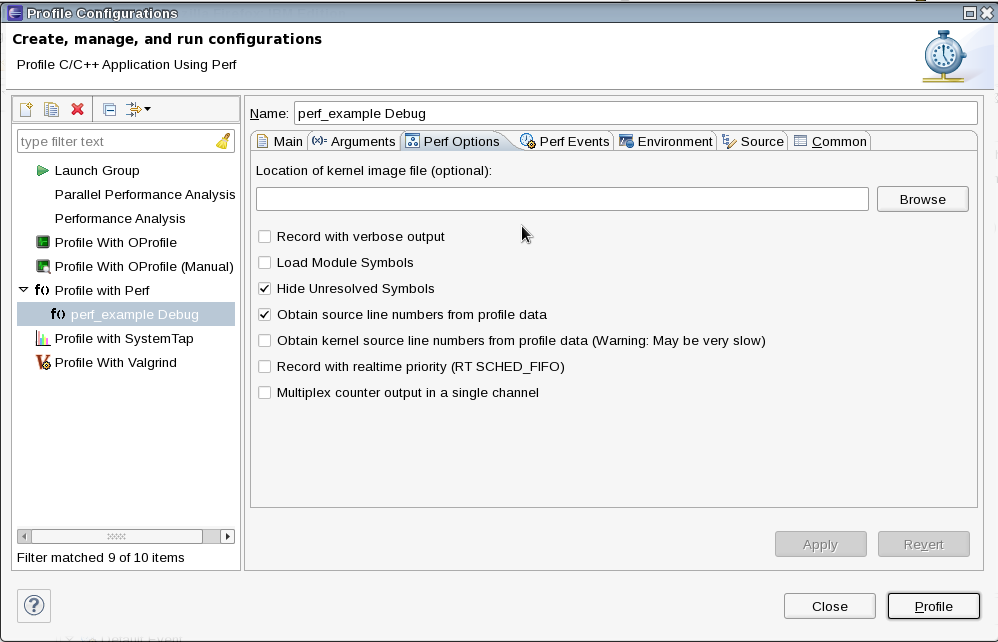
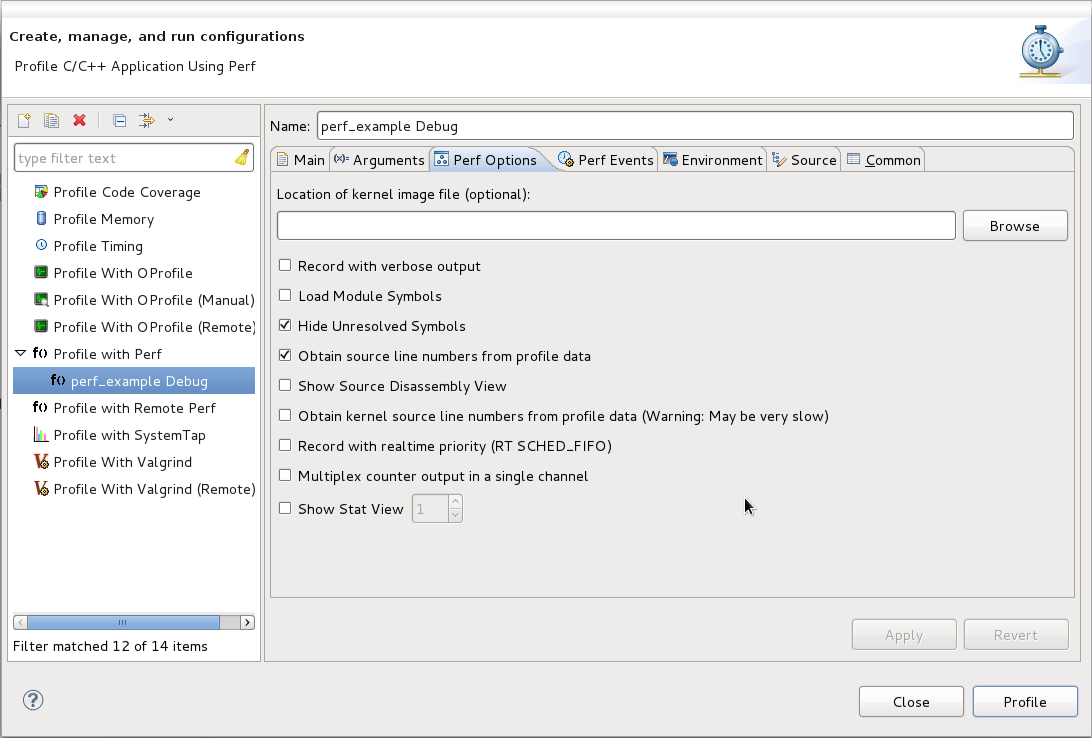
Regenerate Perf doc from wiki.
Removed extract-markup.xsl as not used anymore.

IP-Clean: Camilo Bernal <cabernal@redhat.com>

Changed region(s): [[0.0, 0.0, 1.0, 1.0]]

diff --git a/perf/org.eclipse.linuxtools.perf.doc/Linux_Tools_Project/PERF/User_Guide/Sessions.html b/perf/org.eclipse.linuxtools.perf.doc/Linux_Tools_Project/PERF/User_Guide/Sessions.html
@@ -1,0 +1,92 @@
+<?xml version='1.0' encoding='utf-8' ?><!DOCTYPE html PUBLIC "-//W3C//DTD XHTML 1.0 Transitional//EN" "http://www.w3.org/TR/xhtml1/DTD/xhtml1-transitional.dtd">
+<html xmlns="http://www.w3.org/1999/xhtml">
+	<head>
+		<meta http-equiv="Content-Type" content="text/html; charset=utf-8"/>
+		<title>Perf User Guide - Sessions</title>
+		<link type="text/css" rel="stylesheet" href="../../../book.css"/>
+	</head>
+	<body>
+		<table class="navigation" style="width: 100%;" border="0" summary="navigation">
+			<tr>
+				<th style="width: 100%" align="center" colspan="3">Sessions</th>
+			</tr>
+			<tr>
+				<td style="width: 20%" align="left">
+					<a href="Perf-Views.html" title="Perf Views">
+						<img alt="Previous" border="0" src="../../../images/prev.gif"/>
+					</a>
+				</td>
+				<td style="width: 60%" align="center"></td>
+				<td style="width: 20%" align="right">
+					<a href="Updating-This-Document.html" title="Updating This Document">
+						<img alt="Next" border="0" src="../../../images/next.gif"/>
+					</a>
+				</td>
+			</tr>
+			<tr>
+				<td style="width: 20%" align="left" valign="top">Perf Views</td>
+				<td style="width: 60%" align="center"></td>
+				<td style="width: 20%" align="right" valign="top">Updating This Document</td>
+			</tr>
+		</table><hr/>
+		<h1 id="Sessions">Sessions</h1>
+		<p>The perf plug-in allows you to store profiling sessions to keep track of a project's performance history. Furthermore, sessions allow the plug-in to provide a number of comparison features to investigate differences in performance.</p>
+		<h2 id="Saving_a_Session">Saving a Session</h2>
+		<p>Currently profile and statistics sessions can be saved by using the menu commands of the respective views. Note that if there has not been a profile or stat run, these commands will be disabled as there would be no data available to save.</p>
+		<p>
+			<img border="0" src="images/Save_prof.png"/>
+		</p>
+		<p>
+			<img border="0" src="images/Save_stats.png"/>
+		</p>
+		<p>These sessions will be located under the profiled project root with their user specified names.</p>
+		<p>
+			<img border="0" src="images/Session_loc.png"/>
+		</p>
+		<h2 id="Comparing_Sessions">Comparing Sessions</h2>
+		<p>Comparisons between sessions is supported by this plug-in, allowing for quick feedback about a program's performance. </p>
+		<h3 id="Manual_Comparison">Manual Comparison</h3>
+		<p>To start a manual comparison select the comparison menu command.</p>
+		<p>
+			<img border="0" src="images/Stat_diff_cmd.png"/>
+		</p>
+		<p>Select and confirm the sessions you wish compare from the project explorer.</p>
+		<p>
+			<img border="0" src="images/File_select.png"/>
+		</p>
+		<p>Depending on the type of comparison, the result will be displayed in a specific view.</p>
+		<p>
+			<img border="0" src="images/Stat_diff.png"/>
+		</p>
+		<h3 id="Automatic_comparison">Automatic comparison</h3>
+		<p>Automatic comparison actions auto-select the most recent profiling sessions and display their result as above. Note that this type of comparison will only be enabled after profiling your project at least two times to gather enough data to compare.</p>
+		<p>To start an automatic comparison simply select the "Compare Latest" menu action.</p>
+		<p>
+			<img border="0" src="images/Quick_stat_diff.png"/>
+		</p><hr/>
+		<table class="navigation" style="width: 100%;" border="0" summary="navigation">
+			<tr>
+				<td style="width: 20%" align="left">
+					<a href="Perf-Views.html" title="Perf Views">
+						<img alt="Previous" border="0" src="../../../images/prev.gif"/>
+					</a>
+				</td>
+				<td style="width: 60%" align="center">
+					<a href="User-Guide.html" title="Perf User Guide">
+						<img alt="Perf User Guide" border="0" src="../../../images/home.gif"/>
+					</a>
+				</td>
+				<td style="width: 20%" align="right">
+					<a href="Updating-This-Document.html" title="Updating This Document">
+						<img alt="Next" border="0" src="../../../images/next.gif"/>
+					</a>
+				</td>
+			</tr>
+			<tr>
+				<td style="width: 20%" align="left" valign="top">Perf Views</td>
+				<td style="width: 60%" align="center"></td>
+				<td style="width: 20%" align="right" valign="top">Updating This Document</td>
+			</tr>
+		</table>
+	</body>
+</html>

diff --git a/perf/org.eclipse.linuxtools.perf.doc/Linux_Tools_Project/PERF/User_Guide/Perf-Views.html b/perf/org.eclipse.linuxtools.perf.doc/Linux_Tools_Project/PERF/User_Guide/Perf-Views.html
@@ -2,13 +2,13 @@
 <html xmlns="http://www.w3.org/1999/xhtml">
 	<head>
 		<meta http-equiv="Content-Type" content="text/html; charset=utf-8"/>
-		<title>Perf User Guide - Perf View</title>
+		<title>Perf User Guide - Perf Views</title>
 		<link type="text/css" rel="stylesheet" href="../../../book.css"/>
 	</head>
 	<body>
 		<table class="navigation" style="width: 100%;" border="0" summary="navigation">
 			<tr>
-				<th style="width: 100%" align="center" colspan="3">Perf View</th>
+				<th style="width: 100%" align="center" colspan="3">Perf Views</th>
 			</tr>
 			<tr>
 				<td style="width: 20%" align="left">
@@ -18,7 +18,7 @@
 				</td>
 				<td style="width: 60%" align="center"></td>
 				<td style="width: 20%" align="right">
-					<a href="Updating-This-Document.html" title="Updating This Document">
+					<a href="Sessions.html" title="Sessions">
 						<img alt="Next" border="0" src="../../../images/next.gif"/>
 					</a>
 				</td>
@@ -26,11 +26,13 @@
 			<tr>
 				<td style="width: 20%" align="left" valign="top">Profiling Configuration</td>
 				<td style="width: 60%" align="center"></td>
-				<td style="width: 20%" align="right" valign="top">Updating This Document</td>
+				<td style="width: 20%" align="right" valign="top">Sessions</td>
 			</tr>
 		</table><hr/>
-		<h1 id="Perf_View">Perf View</h1>
-		<p>The Perf view is where all the profiling results can be easily read.</p>
+		<h1 id="Perf_Views">Perf Views</h1>
+		<p>A Perf view is where all the profiling results can be easily read. There are a few different views that may be activated depending on the kind of information a user is interested in.</p>
+		<h3 id="Perf_Tree_View">Perf Tree View</h3>
+		<p>The Perf Tree View stores profiling information in a tree-like hierarchy.</p>
 		<p>
 			<img border="0" src="images/Perf_view.png"/>
 		</p>
@@ -77,7 +79,19 @@
 					</li>
 				</ul>
 			</li>
-		</ul><hr/>
+		</ul>
+		<h3 id="Source_Disassembly_View">Source Disassembly View</h3>
+		<p>Display the source code of the targeted program alongside its assembly code. This also lists the percentage of samples collected at each instruction.</p>
+		<p>This option may be enabled from the launch configuration options for Perf.</p>
+		<p>
+			<img border="0" src="images/Perf_disassembly_view.png"/>
+		</p>
+		<h3 id="Stat_View">Stat View</h3>
+		<p>Display various event information about the execution of the targeted program.</p>
+		<p>This option may be enabled from the launch configuration options for Perf.</p>
+		<p>
+			<img border="0" src="images/Perf_stat_view.png"/>
+		</p><hr/>
 		<table class="navigation" style="width: 100%;" border="0" summary="navigation">
 			<tr>
 				<td style="width: 20%" align="left">
@@ -91,7 +105,7 @@
 					</a>
 				</td>
 				<td style="width: 20%" align="right">
-					<a href="Updating-This-Document.html" title="Updating This Document">
+					<a href="Sessions.html" title="Sessions">
 						<img alt="Next" border="0" src="../../../images/next.gif"/>
 					</a>
 				</td>
@@ -99,7 +113,7 @@
 			<tr>
 				<td style="width: 20%" align="left" valign="top">Profiling Configuration</td>
 				<td style="width: 60%" align="center"></td>
-				<td style="width: 20%" align="right" valign="top">Updating This Document</td>
+				<td style="width: 20%" align="right" valign="top">Sessions</td>
 			</tr>
 		</table>
 	</body>

diff --git a/perf/org.eclipse.linuxtools.perf.doc/Linux_Tools_Project/PERF/User_Guide/Profiling-Configuration.html b/perf/org.eclipse.linuxtools.perf.doc/Linux_Tools_Project/PERF/User_Guide/Profiling-Configuration.html
@@ -18,7 +18,7 @@
 				</td>
 				<td style="width: 60%" align="center"></td>
 				<td style="width: 20%" align="right">
-					<a href="Perf-View.html" title="Perf View">
+					<a href="Perf-Views.html" title="Perf Views">
 						<img alt="Next" border="0" src="../../../images/next.gif"/>
 					</a>
 				</td>
@@ -26,7 +26,7 @@
 			<tr>
 				<td style="width: 20%" align="left" valign="top">Launching a Profile</td>
 				<td style="width: 60%" align="center"></td>
-				<td style="width: 20%" align="right" valign="top">Perf View</td>
+				<td style="width: 20%" align="right" valign="top">Perf Views</td>
 			</tr>
 		</table><hr/>
 		<h1 id="Profiling_Configuration">Profiling Configuration</h1>
@@ -41,12 +41,12 @@
 		<h2 id="Perf_Options_tab">Perf Options tab</h2>
 		<p>This configuration tab contains runtime options for a profiling with Perf, such as loading a kernel image file or hide unsolved symbols. </p>
 		<p>
-			<img border="0" src="images/Perf_optionstab.png"/>
+			<img width="900" border="0" src="images/Perf_optionstab.png"/>
 		</p>
 		<h2 id="Perf_Events_tab">Perf Events tab</h2>
 		<p>On this tab it is possible to set up a customized array of events for the profiling or, if desired, go with the Default Event option which overrides all other settings and run Perf with the default event (cycle counting).</p>
 		<p>
-			<img border="0" src="images/Perf_eventstab.png"/>
+			<img width="900" border="0" src="images/Perf_eventstab.png"/>
 		</p><hr/>
 		<table class="navigation" style="width: 100%;" border="0" summary="navigation">
 			<tr>
@@ -61,7 +61,7 @@
 					</a>
 				</td>
 				<td style="width: 20%" align="right">
-					<a href="Perf-View.html" title="Perf View">
+					<a href="Perf-Views.html" title="Perf Views">
 						<img alt="Next" border="0" src="../../../images/next.gif"/>
 					</a>
 				</td>
@@ -69,7 +69,7 @@
 			<tr>
 				<td style="width: 20%" align="left" valign="top">Launching a Profile</td>
 				<td style="width: 60%" align="center"></td>
-				<td style="width: 20%" align="right" valign="top">Perf View</td>
+				<td style="width: 20%" align="right" valign="top">Perf Views</td>
 			</tr>
 		</table>
 	</body>

diff --git a/perf/org.eclipse.linuxtools.perf.doc/Linux_Tools_Project/PERF/User_Guide/Updating-This-Document.html b/perf/org.eclipse.linuxtools.perf.doc/Linux_Tools_Project/PERF/User_Guide/Updating-This-Document.html
@@ -12,7 +12,7 @@
 			</tr>
 			<tr>
 				<td style="width: 20%" align="left">
-					<a href="Perf-View.html" title="Perf View">
+					<a href="Sessions.html" title="Sessions">
 						<img alt="Previous" border="0" src="../../../images/prev.gif"/>
 					</a>
 				</td>
@@ -20,7 +20,7 @@
 				<td style="width: 20%" align="right"></td>
 			</tr>
 			<tr>
-				<td style="width: 20%" align="left" valign="top">Perf View</td>
+				<td style="width: 20%" align="left" valign="top">Sessions</td>
 				<td style="width: 60%" align="center"></td>
 				<td style="width: 20%" align="right" valign="top"></td>
 			</tr>
@@ -33,7 +33,7 @@
 		<table class="navigation" style="width: 100%;" border="0" summary="navigation">
 			<tr>
 				<td style="width: 20%" align="left">
-					<a href="Perf-View.html" title="Perf View">
+					<a href="Sessions.html" title="Sessions">
 						<img alt="Previous" border="0" src="../../../images/prev.gif"/>
 					</a>
 				</td>
@@ -45,7 +45,7 @@
 				<td style="width: 20%" align="right"></td>
 			</tr>
 			<tr>
-				<td style="width: 20%" align="left" valign="top">Perf View</td>
+				<td style="width: 20%" align="left" valign="top">Sessions</td>
 				<td style="width: 60%" align="center"></td>
 				<td style="width: 20%" align="right" valign="top"></td>
 			</tr>

diff --git a/perf/org.eclipse.linuxtools.perf.doc/Linux_Tools_Project/PERF/User_Guide/Launching-a-Profile.html b/perf/org.eclipse.linuxtools.perf.doc/Linux_Tools_Project/PERF/User_Guide/Launching-a-Profile.html
@@ -35,7 +35,7 @@
 		<h2 id="One-click_launch">One-click launch</h2>
 		<p>The Perf plug-in for Eclipse includes a one-click launch feature which profiles the binary with default options. To use the one-click launch, right click on the project, the binary or in an open editor for a source file belonging to that project. Then, navigate to Profile As and click Profile With Perf to start the launch.</p>
 		<p>
-			<img border="0" src="images/Perf_oneclicklaunch.png"/>
+			<img width="500" border="0" src="images/Perf_oneclicklaunch.png"/>
 		</p>
 		<h2 id="Launching_a_Customized_Profile">Launching a Customized Profile</h2>
 		<p>The Perf plug-in allows you to configure a profile run using several options. These options are exposed via the launch configuration in a user-friendly manner, allowing for a more complex profile.</p>

diff --git a/perf/org.eclipse.linuxtools.perf.doc/Linux_Tools_Project/PERF/User_Guide/User-Guide.html b/perf/org.eclipse.linuxtools.perf.doc/Linux_Tools_Project/PERF/User_Guide/User-Guide.html
@@ -25,6 +25,7 @@
 				<td style="width: 20%" align="right" valign="top">Installing</td>
 			</tr>
 		</table><hr/>
+		<p>{{#eclipseproject:tools.linuxtools}}</p>
 		<h1 id="Overview">Overview</h1>
 		<p>PERF is a performance counters subsystem in Linux. Performance counters are CPU hardware registers that count hardware events such as instructions executed and cache-misses suffered. These counters aid in profiling applications to detect hotspots in the application. PERF provides per task, per CPU and per-workload counters, sampling on top of these and source code event annotation.</p>
 		<p>The PERF plug-in for Eclipse allows the developer to execute profiles in their applications in a seamlessly way, using quick launch actions and visualizing the results in an user-friendly interface.</p><hr/>
